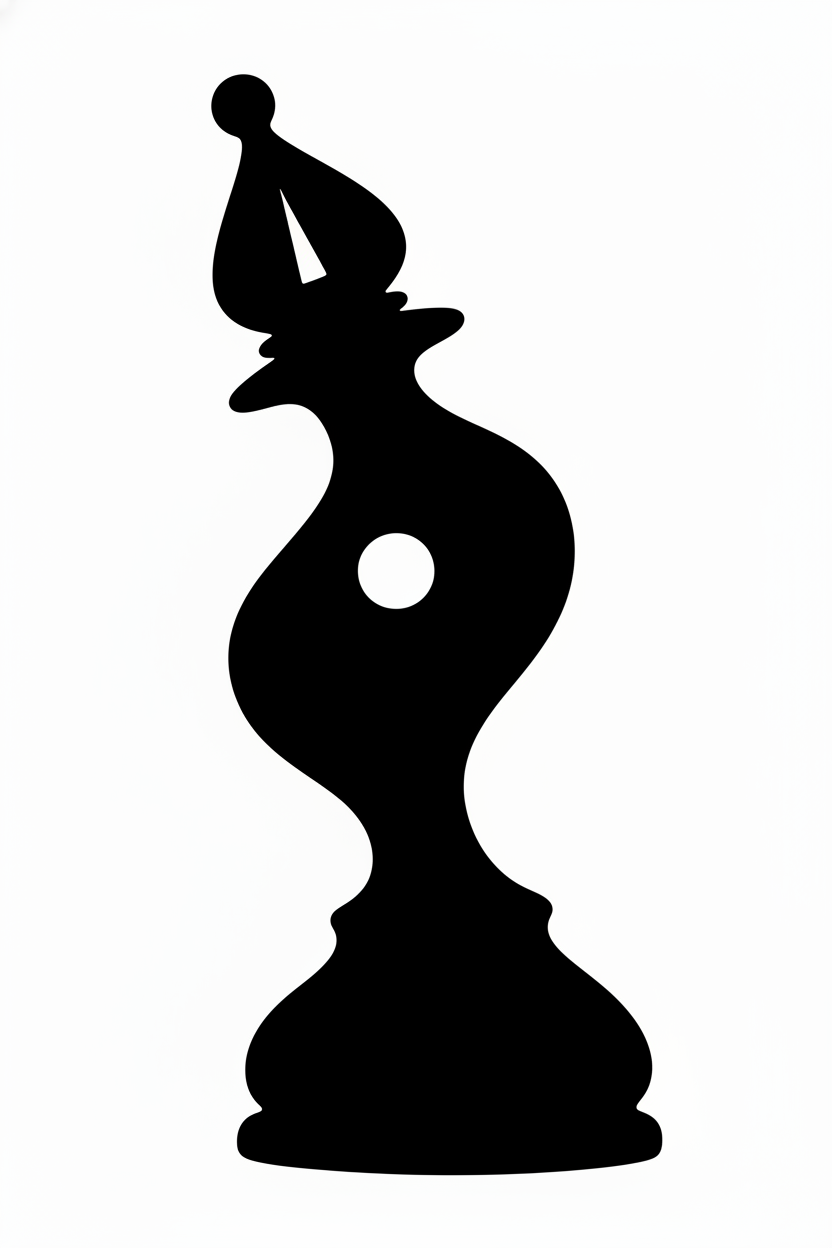
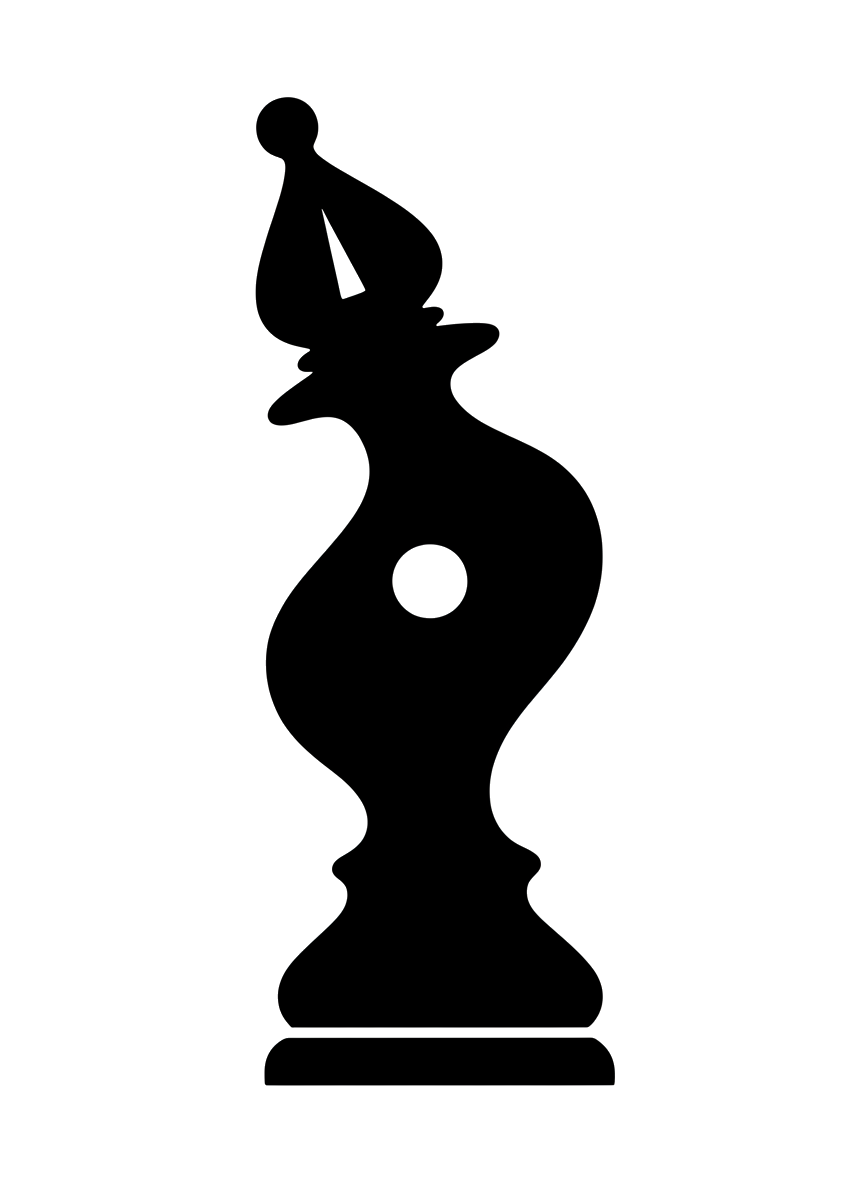
first draft new pieces for update v1

diff --git a/lib/ui/widgets/piece_widget.dart b/lib/ui/widgets/piece_widget.dart
@@ -6,13 +6,28 @@ import '../../core/piece.dart';
 /// Standard piece symbols that have dedicated asset files.
 const _standardSymbols = {'K', 'Q', 'R', 'B', 'N', 'P'};
 
+/// Compound piece symbols (10x10 variants).
+const _compoundSymbols = {'M', 'C', 'A', 'Ch', 'W', 'Fa', 'Hu'};
+
+/// Jetan (Barsoomian) piece symbols.
+const _jetanSymbols = {'Cf', 'Pr', 'Fl', 'Dw', 'Pd', 'Wa', 'Th', 'Pa'};
+
 /// Returns the asset path for a piece, trying SVG first then PNG.
-/// Returns null for compound/Jetan pieces (multi-letter symbols).
+/// Routes standard pieces to set dir, compound/Jetan to their own dirs.
 String? _pieceAssetPath(Piece piece, {String set = 'standard'}) {
-  if (!_standardSymbols.contains(piece.symbol)) return null;
   final colorPrefix = piece.color == PieceColor.white ? 'w' : 'b';
-  final base = 'assets/pieces/$set/$colorPrefix${piece.symbol}';
-  return base; // caller will try .svg then .png
+  final sym = piece.symbol;
+
+  if (_standardSymbols.contains(sym)) {
+    return 'assets/pieces/$set/$colorPrefix$sym';
+  }
+  if (_compoundSymbols.contains(sym)) {
+    return 'assets/pieces/compound/$colorPrefix$sym';
+  }
+  if (_jetanSymbols.contains(sym)) {
+    return 'assets/pieces/jetan/$colorPrefix$sym';
+  }
+  return null; // unknown symbol — fallback to circle+letter
 }
 
 /// Cache which asset paths exist and in which format.

diff --git a/scripts/generate_pieces.py b/scripts/generate_pieces.py
@@ -1,0 +1,174 @@
+#!/usr/bin/env python3
+"""Generate chess piece PNGs using Gemini imagen API.
+
+Generates compound pieces (for 10x10 variants) and Jetan pieces
+in the classic CBurnett/Staunton style with transparent backgrounds.
+"""
+
+import base64
+import json
+import os
+import ssl
+import sys
+import time
+import urllib.request
+import urllib.error
+from pathlib import Path
+
+try:
+    import certifi
+    SSL_CTX = ssl.create_default_context(cafile=certifi.where())
+except ImportError:
+    SSL_CTX = ssl.create_default_context()
+
+API_KEY = os.environ.get("GEMINI_API_KEY")
+if not API_KEY:
+    print("ERROR: GEMINI_API_KEY not set")
+    sys.exit(1)
+
+MODEL = "gemini-2.5-flash-image"
+API_URL = f"https://generativelanguage.googleapis.com/v1beta/models/{MODEL}:generateContent?key={API_KEY}"
+
+OUTPUT_DIR = Path(__file__).parent.parent / "assets" / "pieces"
+
+# Style preamble for all pieces
+STYLE_PREFIX = (
+    "A single chess piece in the classic Staunton/CBurnett style. "
+    "Clean vector-like illustration with smooth outlines, on a plain white background. "
+    "The piece should be centered, viewed from the front, with a standard chess piece base/pedestal. "
+    "No shadows, no 3D lighting, no gradients — flat fill with clear black outlines. "
+    "The piece should fill about 80% of the frame. Square aspect ratio. "
+)
+
+WHITE_STYLE = "The piece is WHITE (light colored) with a white/cream fill and black outlines. "
+BLACK_STYLE = "The piece is BLACK (dark colored) with a solid black/dark gray fill and thin light gray outlines. "
+
+# Piece definitions: symbol -> (name, description for prompt)
+COMPOUND_PIECES = {
+    "M": ("Marshal", "A chess piece called the Marshal that combines a Rook and Knight. The top has a rook-style crenellated castle tower, but with a small knight horse-head shape carved into the front of the tower between the battlements. Standard chess piece pedestal base."),
+    "C": ("Cardinal", "A chess piece called the Cardinal that combines a Bishop and Knight. The top has a bishop's tall pointed mitre hat, but the mitre has a small horse-head profile carved into its left side. A slit runs down the mitre center. Standard chess piece pedestal base."),
+    "A": ("Amazon", "A chess piece called the Amazon — the most powerful piece on the board. The top has an ornate crown with multiple points like a queen, with a tiny horse head rising from the center point. Taller and more elaborate than a queen. Standard chess piece pedestal base."),
+    "Ch": ("Champion", "A chess piece called the Champion. The top is a broad flat disc or shield shape — like a round buckler viewed from the front — with a bold cross/plus emblem embossed on it. Wider and sturdier than other pieces. Standard chess piece pedestal base."),
+    "W": ("Wizard", "A chess piece called the Wizard. The top is a tall pointed cone like a wizard's hat, with a small crescent moon cutout near the tip. The body tapers elegantly. Standard chess piece pedestal base."),
+    "Fa": ("Falcon", "A chess piece called the Falcon. The top is a stylized bird head in profile — a curved beak pointing right, with a sleek swept-back crest. The silhouette clearly reads as a falcon/hawk. Standard chess piece pedestal base."),
+    "Hu": ("Hunter", "A chess piece called the Hunter. The top is an upward-pointing arrowhead or spearpoint — a sharp triangular shape. The body has a slight hourglass taper. Standard chess piece pedestal base."),
+}
+
+JETAN_PIECES = {
+    "Cf": ("Chief", "A chess piece for the Barsoomian Chief (warlord). It has a bold horned helmet or war crown with two curved horns rising from the sides, imposing and commanding, sitting on a standard chess piece base."),
+    "Pr": ("Princess", "A chess piece for the Barsoomian Princess. It has an elegant tiara with a central gemstone shape, graceful curved lines suggesting royalty, sitting on a slender standard chess piece base."),
+    "Fl": ("Flier", "A chess piece for the Barsoomian Flier (aerial warrior). It has swept-back wing shapes or a propeller/airship motif at the top, suggesting flight and speed, sitting on a standard chess piece base."),
+    "Dw": ("Dwar", "A chess piece for the Barsoomian Dwar (commander). It has a plumed military helmet with a tall central crest or plume, suggesting a high-ranking officer, sitting on a standard chess piece base."),
+    "Pd": ("Padwar", "A chess piece for the Barsoomian Padwar (lieutenant). It has a simpler military cap or helm with a small forward-pointing visor, less ornate than the Dwar, sitting on a standard chess piece base."),
+    "Wa": ("Warrior", "A chess piece for the Barsoomian Warrior. It has a round shield shape at the top with a small sword or blade crossing behind it, martial and ready for combat, sitting on a standard chess piece base."),
+    "Th": ("Thoat", "A chess piece for the Barsoomian Thoat (war mount). It has an animal head shape — like a stylized horse or alien beast with pointed ears and an elongated snout, suggesting a riding beast, sitting on a standard chess piece base."),
+    "Pa": ("Panthan", "A chess piece for the Barsoomian Panthan (foot soldier/mercenary). It is the simplest piece — a plain rounded dome top like a pawn but slightly taller, with a single horizontal band around the middle, sitting on a standard chess piece base."),
+}
+
+
+def generate_piece_image(prompt: str) -> bytes | None:
+    """Call Gemini imagen API and return PNG bytes."""
+    payload = {
+        "contents": [{"parts": [{"text": prompt}]}],
+        "generationConfig": {
+            "responseModalities": ["TEXT", "IMAGE"],
+        },
+    }
+
+    data = json.dumps(payload).encode("utf-8")
+    req = urllib.request.Request(
+        API_URL,
+        data=data,
+        headers={"Content-Type": "application/json"},
+    )
+
+    try:
+        with urllib.request.urlopen(req, timeout=90, context=SSL_CTX) as resp:
+            result = json.loads(resp.read())
+    except urllib.error.HTTPError as e:
+        body = e.read().decode()
+        print(f"  API error {e.code}: {body[:200]}")
+        return None
+    except Exception as e:
+        print(f"  Request error: {e}")
+        return None
+
+    # Extract image from response
+    try:
+        for candidate in result.get("candidates", []):
+            for part in candidate.get("content", {}).get("parts", []):
+                if "inlineData" in part:
+                    return base64.b64decode(part["inlineData"]["data"])
+    except (KeyError, IndexError) as e:
+        print(f"  Parse error: {e}")
+        print(f"  Response keys: {list(result.keys())}")
+
+    print(f"  No image in response. Keys: {list(result.get('candidates', [{}])[0].get('content', {}).get('parts', [{}])[0].keys()) if result.get('candidates') else 'no candidates'}")
+    return None
+
+
+def remove_white_background(png_bytes: bytes) -> bytes:
+    """Remove white/near-white background pixels, making them transparent."""
+    try:
+        from PIL import Image
+        import io
+
+        img = Image.open(io.BytesIO(png_bytes)).convert("RGBA")
+        pixels = list(img.getdata())
+        new_pixels = [
+            (255, 255, 255, 0) if r > 230 and g > 230 and b > 230 else (r, g, b, a)
+            for r, g, b, a in pixels
+        ]
+        img.putdata(new_pixels)
+
+        out = io.BytesIO()
+        img.save(out, format="PNG")
+        return out.getvalue()
+    except ImportError:
+        print("  WARNING: Pillow not installed, skipping background removal")
+        return png_bytes
+
+
+def generate_all_pieces():
+    all_pieces = {}
+    all_pieces.update({k: ("compound", *v) for k, v in COMPOUND_PIECES.items()})
+    all_pieces.update({k: ("jetan", *v) for k, v in JETAN_PIECES.items()})
+
+    total = len(all_pieces) * 2  # white + black
+    done = 0
+
+    for symbol, (subdir, name, desc) in all_pieces.items():
+        out_dir = OUTPUT_DIR / subdir
+        out_dir.mkdir(parents=True, exist_ok=True)
+
+        for color, color_style in [("w", WHITE_STYLE), ("b", BLACK_STYLE)]:
+            done += 1
+            filename = f"{color}{symbol}.png"
+            filepath = out_dir / filename
+
+            if filepath.exists():
+                print(f"[{done}/{total}] SKIP {filepath.name} (exists)")
+                continue
+
+            prompt = STYLE_PREFIX + color_style + desc
+            print(f"[{done}/{total}] Generating {filepath.name} ({name})...")
+
+            png_data = generate_piece_image(prompt)
+            if png_data is None:
+                print(f"  FAILED to generate {filename}")
+                continue
+
+            # Remove white background
+            png_data = remove_white_background(png_data)
+
+            filepath.write_bytes(png_data)
+            print(f"  Saved {filepath} ({len(png_data)} bytes)")
+
+            # Rate limiting — be gentle with the API
+            time.sleep(2)
+
+    print(f"\nDone! Generated {done} pieces.")
+
+
+if __name__ == "__main__":
+    generate_all_pieces()

diff --git a/docs/PIECE-UPDATE-STATUS.md b/docs/PIECE-UPDATE-STATUS.md
@@ -1,0 +1,118 @@
+# WeirdChess Piece Graphics Update — Status
+
+Last updated: 2026-04-12
+
+## Overview
+
+Replacing the original circle+letter piece rendering with custom art generated
+via Gastown multi-model pipeline (Gemini 2.5 Flash image generation + iterative
+refinement).
+
+## Current Status
+
+### Standard Piece Set (black side) — In Progress
+
+**Style direction established through 12 iterative takes:**
+- Flat 2D vector silhouettes, solid black fill, no 3D
+- Face/mask negative-space cutouts on King and Queen
+- S-curve body with void hole for Bishop
+- Spiky triangular mane for Knight
+- Gourd/bottle shape for Pawn
+- Trapezoidal Rook with smooth silhouette
+- Pedestal base style shared across all pieces
+
+**Current best takes per piece:**
+
+| Piece  | Best Take | Key Features | Status |
+|--------|-----------|-------------|--------|
+| King   | take12    | Crown+cross, face cutouts, skull-like | Needs refinement — still has shaft, want crown-only |
+| Queen  | take12    | Multi-pointed coronet, face cutouts | Needs refinement — same shaft issue |
+| Rook   | take11    | Crenellations, smooth body, pedestal base | Good |
+| Bishop | take11    | S-curve with void, pointed mitre | Good |
+| Knight | take11    | Spiky triangular mane, expressive eye | Good |
+| Pawn   | take11    | Gourd shape, spherical top | Good |
+
+### White Piece Variants — Not Started
+
+Currently using CBurnett SVGs as placeholder for white pieces.
+
+### Compound/Fairy Pieces (7 types) — Not Started
+
+Amazon, Cardinal, Marshal, Champion, Wizard, Falcon, Hunter. 
+These still render as circle+letter. Need original designs.
+
+### Jetan/Barsoomian Pieces (8 types) — Not Started
+
+Chief, Princess, Flier, Dwar, Padwar, Warrior, Thoat, Panthan.
+Need sci-fi/alien aesthetic. Still circle+letter.
+
+### Per-Variant Board Sets — Not Started
+
+12 board variants each planned to have unique piece set flavor.
+See `piece-design-brief.md` for per-variant style direction.
+
+## Code Changes Made
+
+### PieceWidget (`lib/ui/widgets/piece_widget.dart`)
+- Now supports SVG and PNG assets with automatic format detection
+- Falls back to circle+letter for pieces without asset files
+- Accepts `pieceSet` parameter to load from different asset directories
+- Uses `rootBundle.load()` with caching to resolve SVG vs PNG
+
+### Variant Base (`lib/variants/variant_base.dart`)
+- Added `pieceSet` getter (defaults to `'standard'`)
+- Each variant can override to specify its own piece art directory
+
+### Board Widget (`lib/ui/widgets/board_widget.dart`)
+- Passes `variant.pieceSet` through to `PieceWidget` and `MoveAnimationOverlay`
+
+### Move Animation Overlay (`lib/ui/widgets/move_animation_overlay.dart`)
+- Added `pieceSet` parameter, forwarded to `PieceWidget` during animations
+
+### Standard Chess Variant (`lib/variants/standard_chess.dart`)
+- **TEMPORARY**: `pieceSet` overridden to `'weird'` for testing
+- TODO: Revert to `'standard'` or make user-selectable
+
+### pubspec.yaml
+- Added `assets/pieces/standard/` and `assets/pieces/weird/` directories
+
+## Asset Directories
+
+```
+assets/pieces/
+├── standard/          # CBurnett SVGs (GPLv2+) — 12 files (wK.svg, bK.svg, etc.)
+│   └── LICENSE        # GPLv2+ attribution
+├── weird/             # Custom generated pieces — in progress
+│   ├── bK.png         # Black King (take12)
+│   ├── bQ.png         # Black Queen (take12)
+│   ├── bR.png         # Black Rook (take11)
+│   ├── bB.png         # Black Bishop (take11)
+│   ├── bN.png         # Black Knight (take11)
+│   ├── bP.png         # Black Pawn (take11)
+│   └── w*.svg         # White pieces (CBurnett placeholders)
+└── compound/          # Empty — for future compound piece assets
+```
+
+## Reference Documents
+
+- `docs/piece-design-brief.md` — Full design constraints, app palette, board colors, size requirements
+- `docs/piece-generation-specs.md` — Per-piece generation specs, prompt templates, review criteria
+
+## Generation Pipeline
+
+All piece generation runs through the Gastown Mission District fork:
+- Pipeline project: `gastown-mission-district/agents/lib/imagen-projects/weirdchess.sh`
+- Seed images: `gastown-mission-district/weirdchess-pieces/seed_images/`
+- All takes: `gastown-mission-district/weirdchess-pieces/sample/test_styles/`
+- Each take has `.png` + `.prompt.txt` files preserved for reproducibility
+
+## Next Steps
+
+1. Resolve king/queen "crown only" design (try programmatic cropping or Staunton reference)
+2. Generate white color variants
+3. Test on board at mobile game size
+4. Generate compound pieces (7 types)
+5. Generate Jetan pieces (8 types)
+6. Create per-variant themed sets
+7. Convert final PNGs → SVG for production
+8. Make piece set user-selectable in settings
